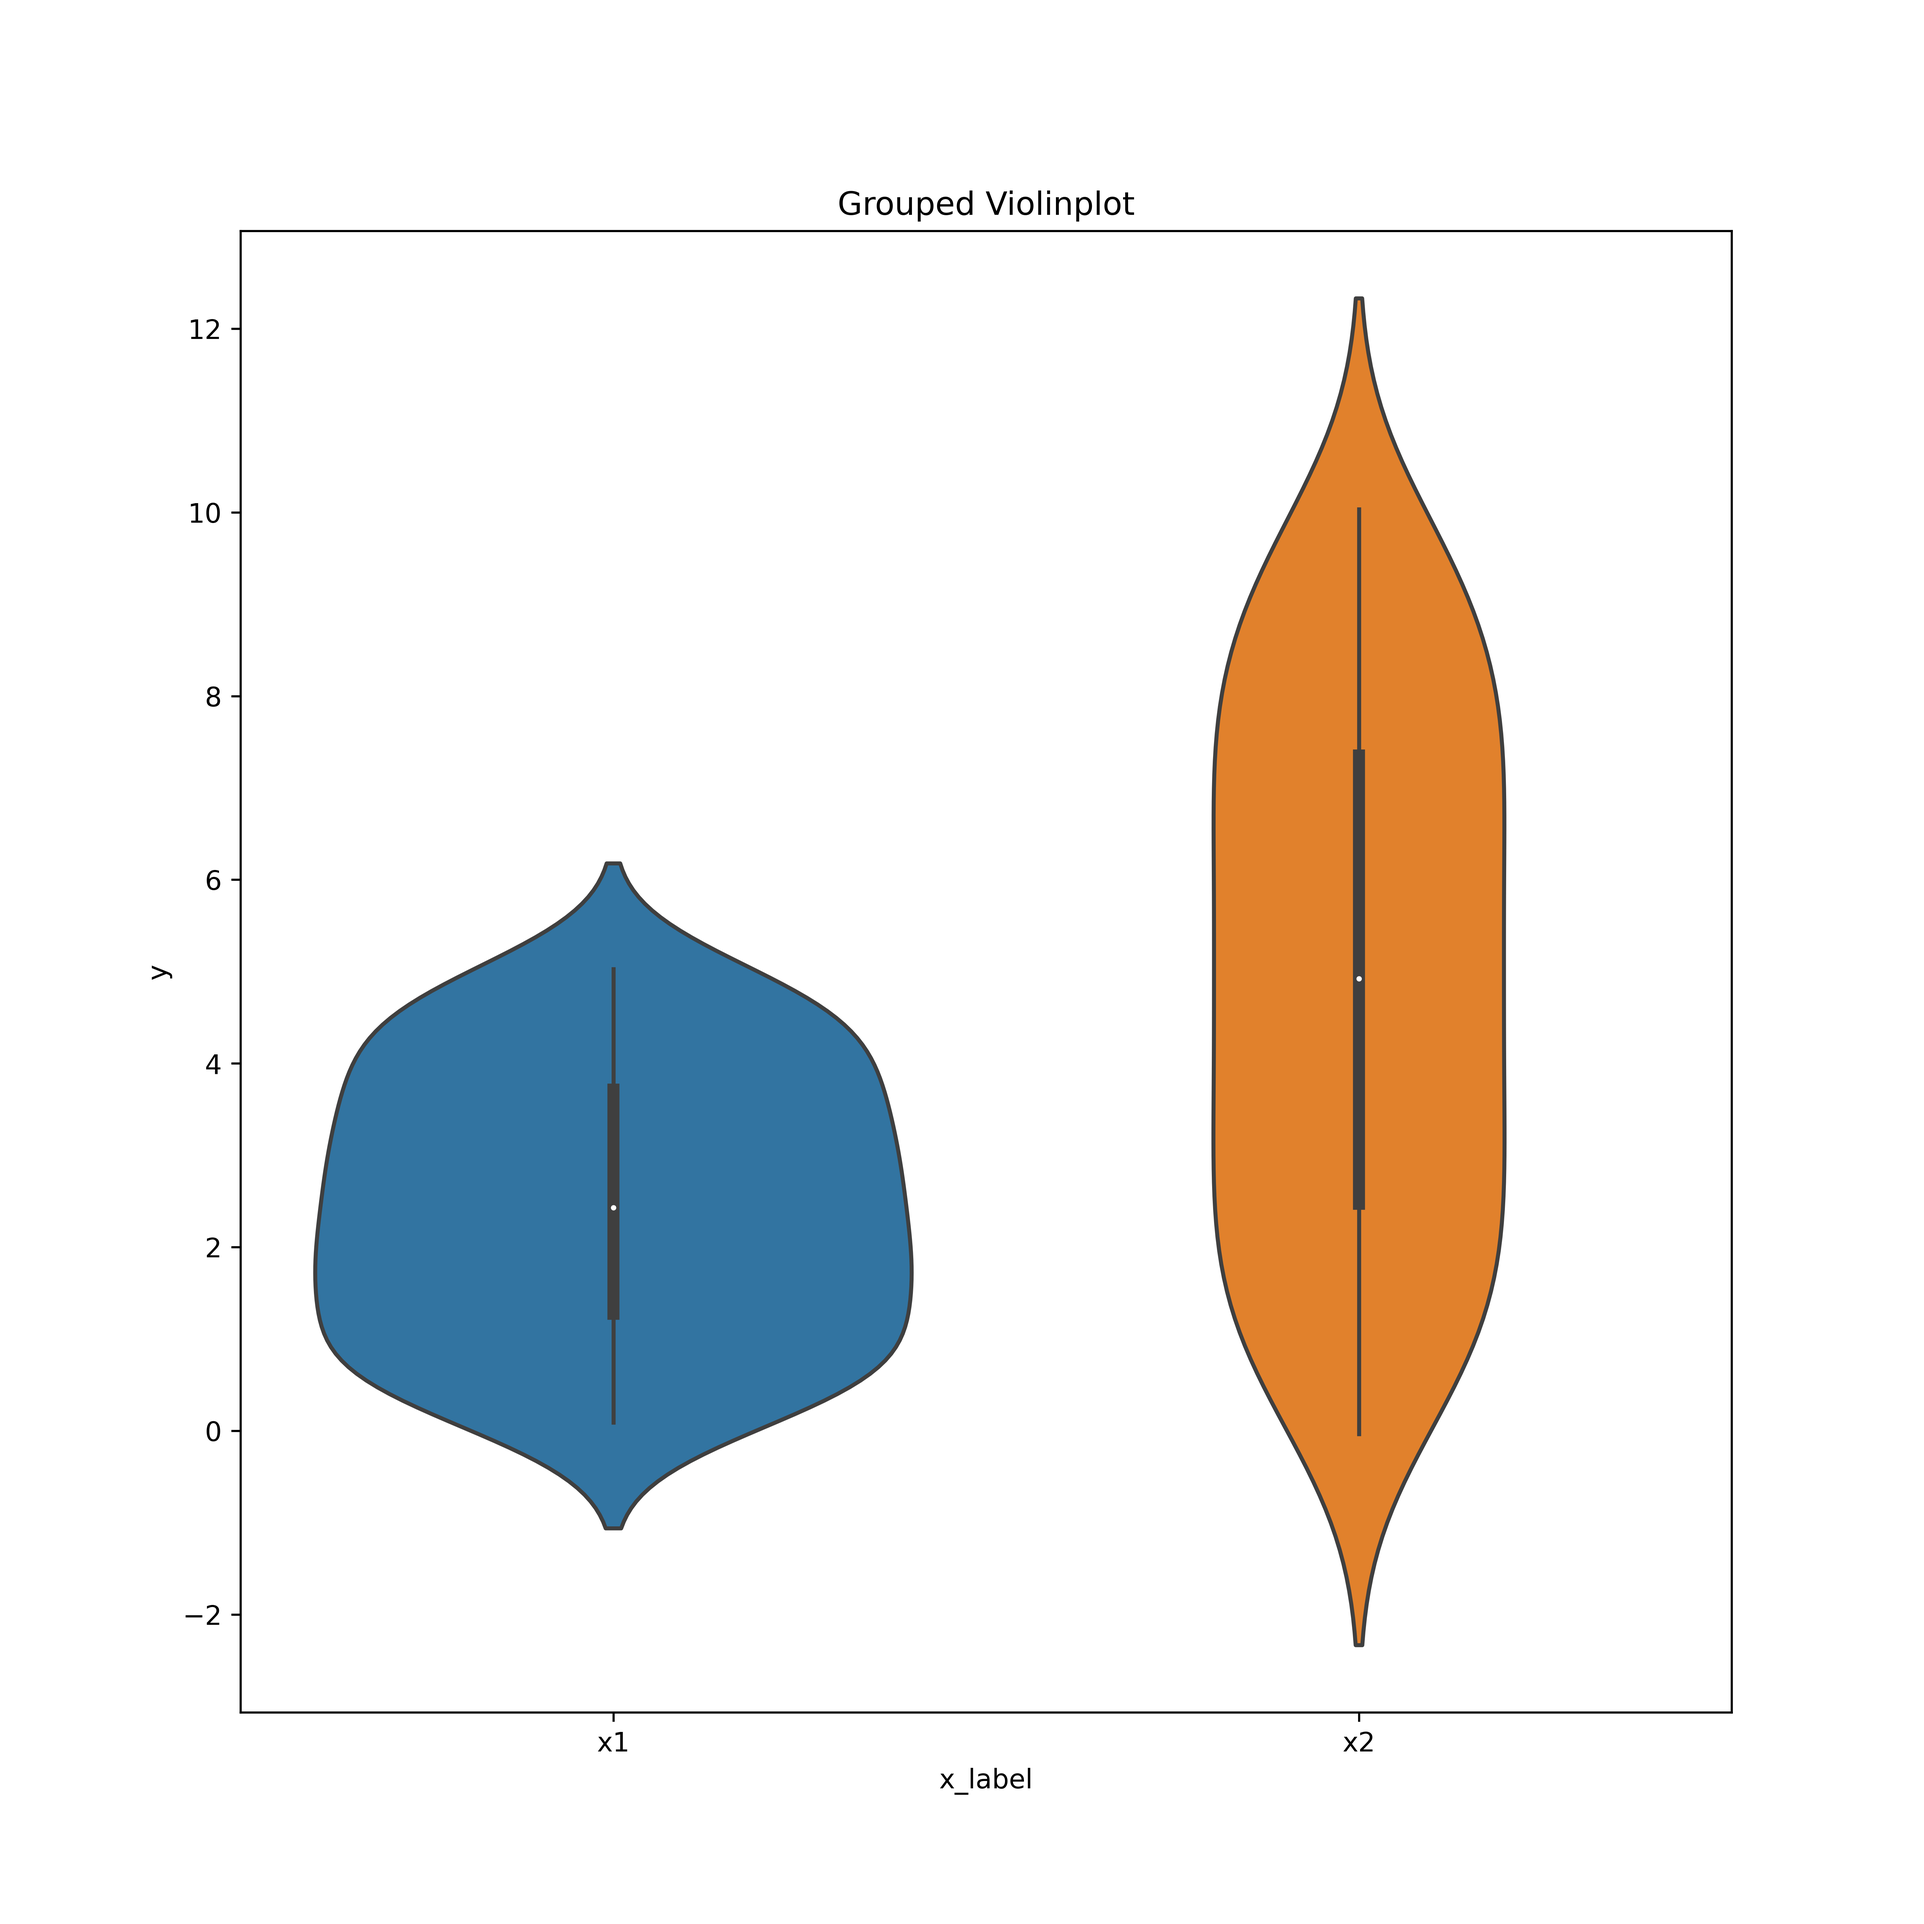
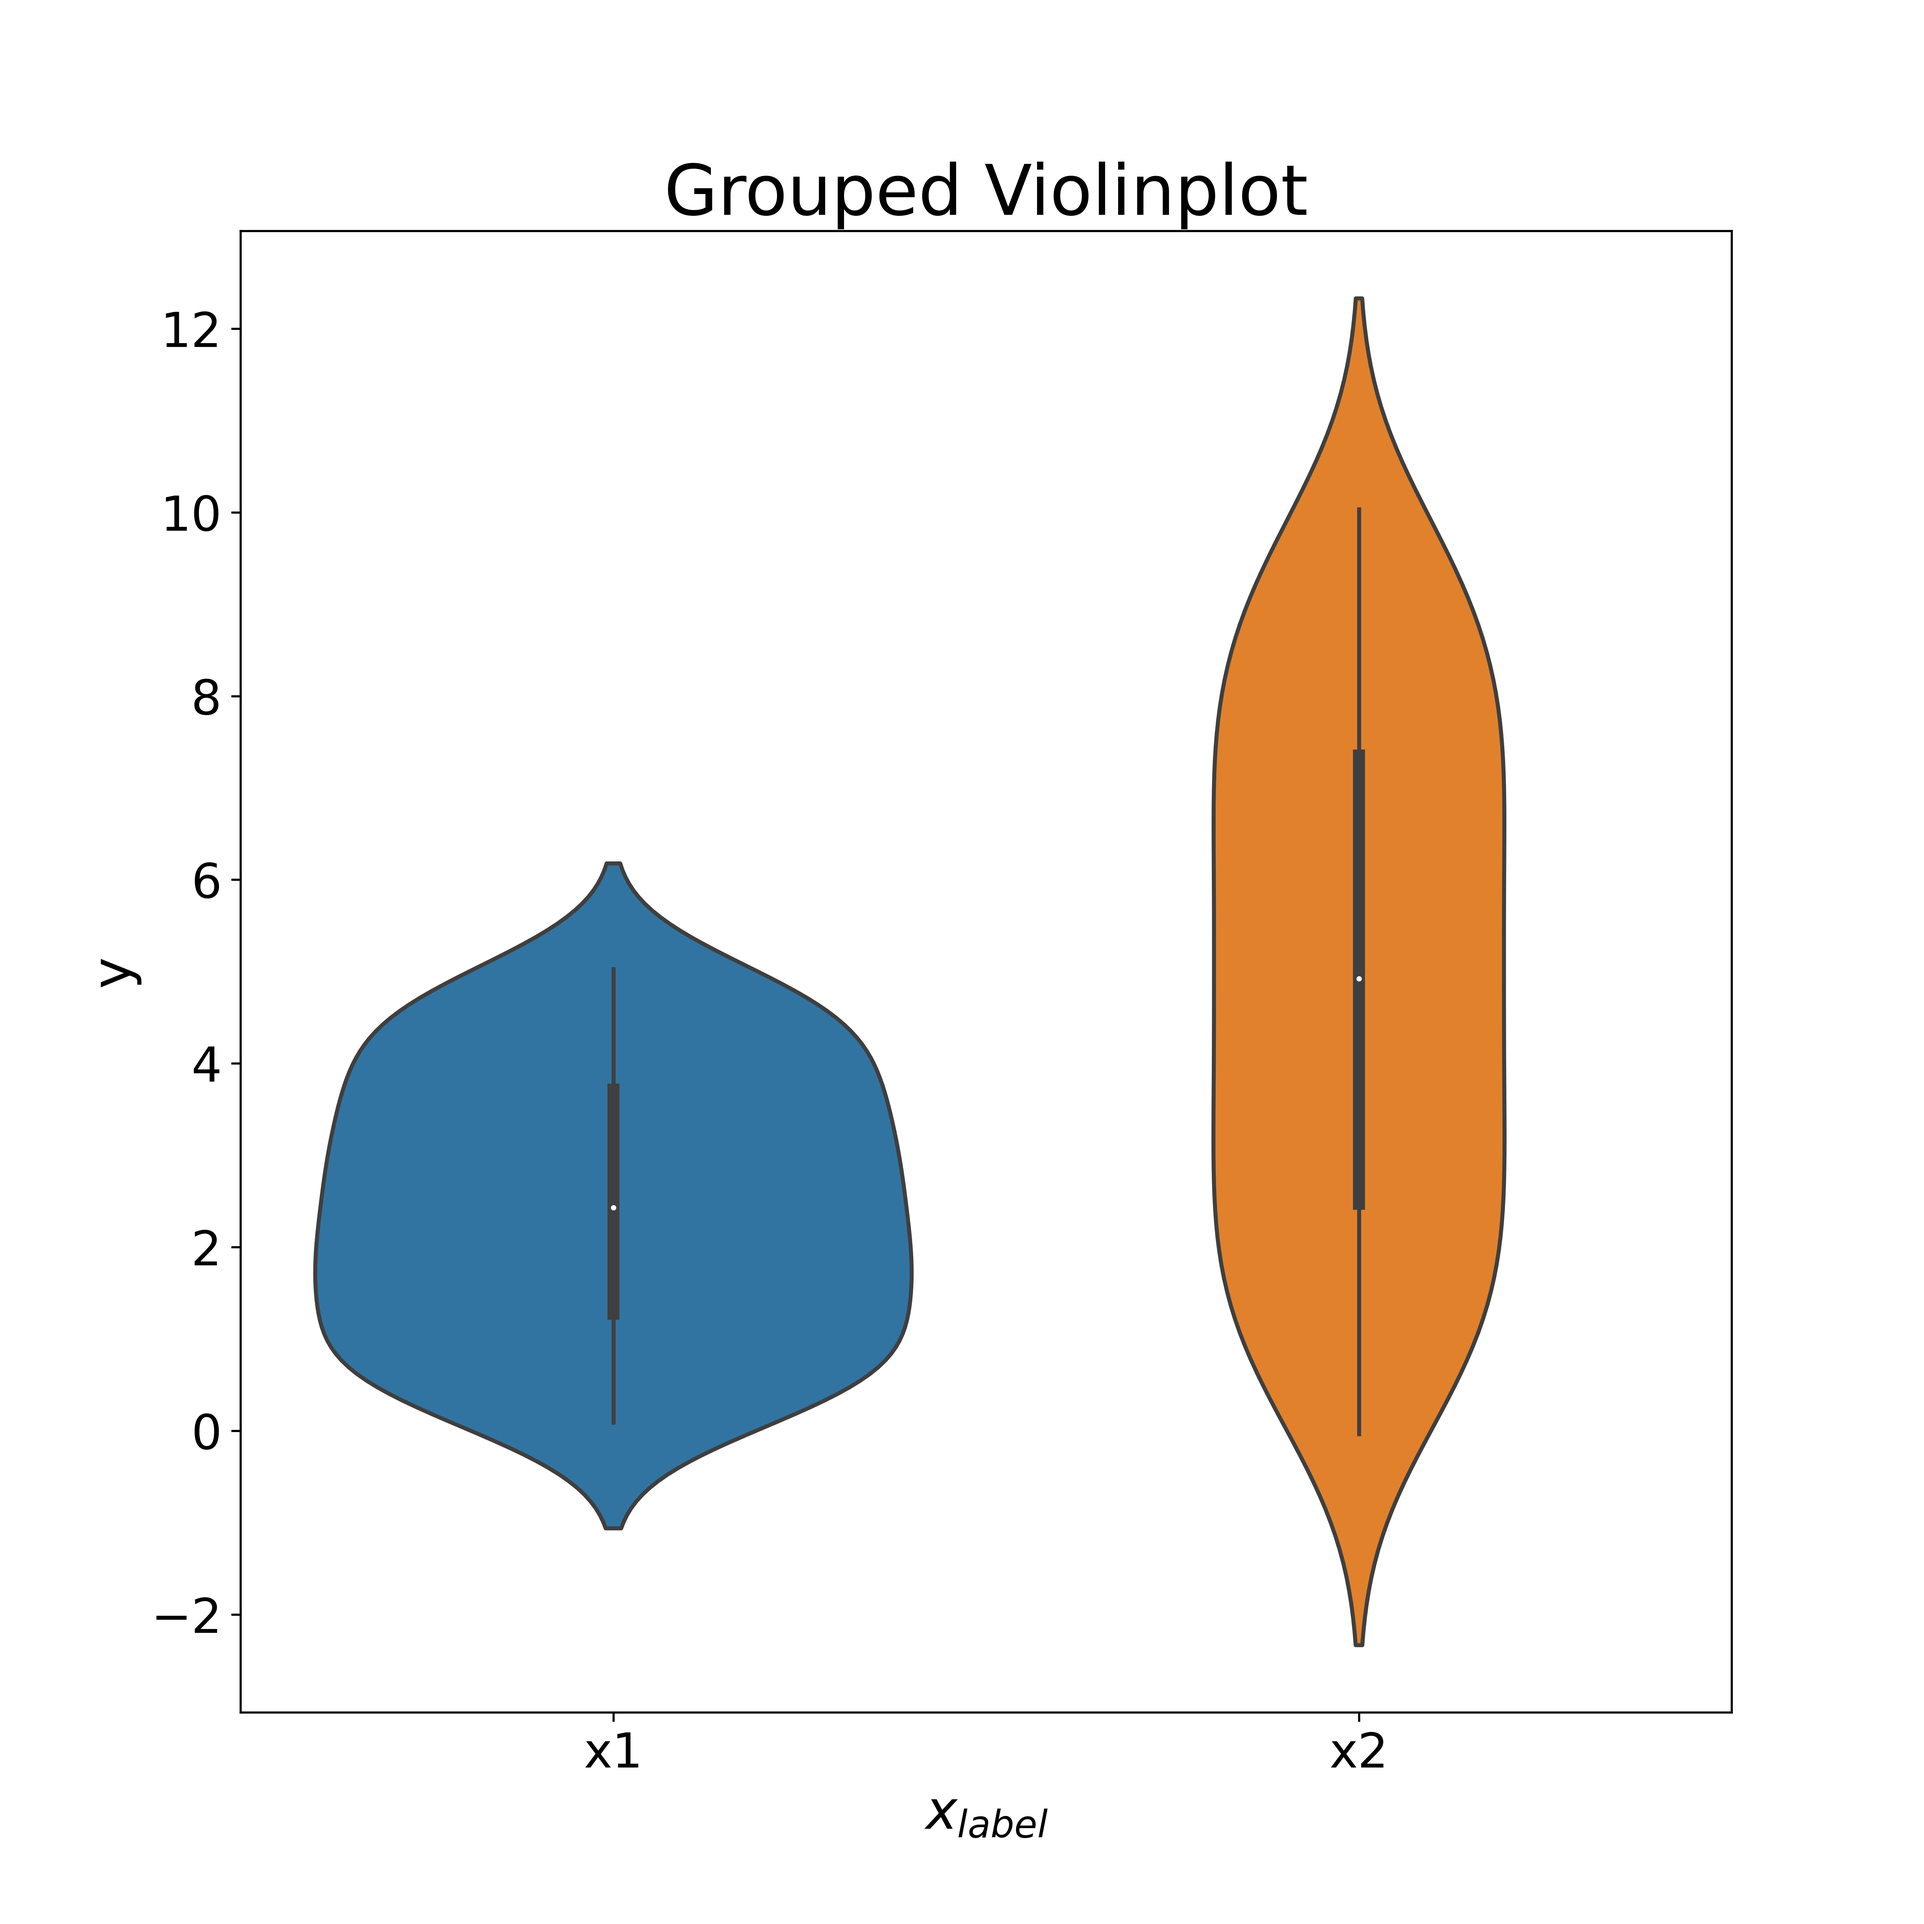
Rename paras and add more paras for set_axis_infos

diff --git a/plotting_utils/general_utils.py b/plotting_utils/general_utils.py
@@ -18,9 +18,11 @@ def save_fig(fig,save_loc:str = None, dpi:int = 600) -> None:
     fig.savefig(save_loc, dpi = dpi)
     plt.close("all")
 
-def set_axis_infos(ax, xlabel:str = None, ylabel:int = None, xlim = None, 
-                   ylim = None, legend = None, title:str = None, xticks = None,
-                   yticks = None) -> None:
+def set_axis_infos(ax, xlabel:str = None, ylabel:str = None, xlim = None, 
+                   ylim = None, legend = None, title_str:str = None, xticks = None,
+                   yticks = None, xlabel_size:int = 20, ylabel_size:int = 20, 
+                   title_size:int =26, ticks_size:int = 18, legend_size:int = 20, 
+                   legend_loc:str = 'best') -> None:
     """
     Set axis information
     :param ax: axis
@@ -29,13 +31,26 @@ def set_axis_infos(ax, xlabel:str = None, ylabel:int = None, xlim = None,
     :param xlim: x-axis limits
     :param ylim: y-axis limits
     :param legend: legend
-    :param title: title
+    :param title_str: title
+    :param xticks: x-axis ticks
+    :param yticks: y-axis ticks
+    :param xlabel_size: x-axis label size
+    :param ylabel_size: y-axis label size
+    :param title_size: title size
+    :param ticks_size: ticks size
+    :param legend_size: legend size
+    :param legend_loc: legend location
     :return: None
     """
+
     if xlabel:
         ax.set_xlabel(xlabel)
+    if xlabel_size:
+        ax.xaxis.label.set_size(xlabel_size)
     if ylabel:
         ax.set_ylabel(ylabel)
+    if ylabel_size:
+        ax.yaxis.label.set_size(ylabel_size)
     if xlim:
         ax.set_xlim(xlim[0], xlim[1])
     if ylim:
@@ -44,7 +59,9 @@ def set_axis_infos(ax, xlabel:str = None, ylabel:int = None, xlim = None,
         ax.set_xticks(xticks)
     if yticks:
         ax.set_yticks(yticks)
+    if ticks_size:
+        ax.tick_params(axis='both', which='major', labelsize=ticks_size)
     if legend:
-        ax.legend(legend)
-    if title:
-        ax.set_title(title)
+        ax.legend(legend, fontsize=legend_size, loc=legend_loc)
+    if title_str:
+        ax.set_title(title_str, fontsize=title_size)

diff --git a/plotting_utils/scatterplot_utils.py b/plotting_utils/scatterplot_utils.py
@@ -1,5 +1,6 @@
 import matplotlib.pyplot as plt
 import seaborn as sns
+from .general_utils import set_axis_infos
 
 def basic_scatterplot(ts_x = None, ts_y = None, title_str:str = None, ylabel:str = None, lw:float=3.0, ylim = None, xlabel:str = 'time', xlim = None, ms:float =4.0, color:str = 'b', ax = None) -> None:
     """
@@ -31,8 +32,8 @@ def basic_scatterplot(ts_x = None, ts_y = None, title_str:str = None, ylabel:str
     if ylim:
         ax.set_ylim(ylim)
 
-    # Set title
-    ax.set_title(title_str)
+    # Set axis infos
+    set_axis_infos(ax, ylim = ylim, title_str = title_str)
 
 # joint plot: scatterplot with the CDFs
 def scatter_pdf_plot(ts_x = None, ts_y = None, title_str:str = None, ylabel:str = None, lw:float=3.0, ylim = None, xlabel:str = 'time', xlim = None):
@@ -50,7 +51,7 @@ def scatter_pdf_plot(ts_x = None, ts_y = None, title_str:str = None, ylabel:str 
     """
 
     # Joint plot
-    fig = sns.jointplot(x = ts_x, y = ts_y,)
+    fig = sns.jointplot(x = ts_x, y = ts_y)
 
     # Set labels
     fig.set_axis_labels(xlabel, ylabel)

diff --git a/plotting_utils/histogram_utils.py b/plotting_utils/histogram_utils.py
@@ -25,7 +25,7 @@ def plot_pdf(data_vector = None, xlabel:str = None, title_str:str = None, ax = N
     alpha=.4, edgecolor=(1, 1, 1, .4), ax = ax)
 
     # Set axis infos
-    set_axis_infos(ax, xlabel = xlabel, title = title_str)
+    set_axis_infos(ax, xlabel = xlabel, title_str = title_str)
 
 def plot_several_pdf(data_vector_list = None, xlabel:str = None, 
                       title_str:str = None, legend = None, 
@@ -53,5 +53,5 @@ def plot_several_pdf(data_vector_list = None, xlabel:str = None,
 
 
     # Set axis infos
-    set_axis_infos(ax, xlabel = xlabel, ylabel = ylabel, title = title_str, xlim = xlim, legend = legend)
+    set_axis_infos(ax, xlabel = xlabel, ylabel = ylabel, title_str = title_str, xlim = xlim, legend = legend)
 

diff --git a/plotting_utils/lineplot_utils.py b/plotting_utils/lineplot_utils.py
@@ -20,7 +20,7 @@ def basic_plot_ts(ts_vector = None, title_str:str = None, ylabel:str = None, lw:
     # Plot time series
     ax.plot(ts_vector, lw=lw)
 
-    set_axis_infos(ax, xlabel=xlabel,ylabel=ylabel, ylim = ylim, title = title_str)
+    set_axis_infos(ax, xlabel=xlabel,ylabel=ylabel, ylim = ylim, title_str = title_str)
 
 
 def overlaid_ts(normalized_ts_dict:Dict = None, title_str:str = None, 
@@ -113,7 +113,6 @@ def overlaid_ts(normalized_ts_dict:Dict = None, title_str:str = None,
 
     # Plot legend
     if legend_present:
-        print('legend present!')
         ax.legend(loc = 'best')
 
     # Set title if not none

diff --git a/examples/scatterplot_examples.py b/examples/scatterplot_examples.py
@@ -22,7 +22,6 @@ def test_basic_scatterplot(x_data,y_data) -> None:
     :return: None
     """
 
-
     fig, ax = plt.subplots(figsize=(10, 10))
 
     # Create a  basic scatter plot
@@ -40,7 +39,7 @@ def test_scatter_pdf_plot(x_data,y_data) -> None:
     :param y_data: y-axis data
     :return: None
     """
-    
+
     # Create a scatter plot with CDFs
     fig = scatter_pdf_plot(ts_x = x_data, ts_y = y_data, title_str = 'Scatter Plot with CDFs', ylabel = 'y', lw = 3.0, ylim = None, xlabel = 'x', xlim = None)
 

diff --git a/examples/violinplot_examples.py b/examples/violinplot_examples.py
@@ -50,7 +50,7 @@ if __name__ == '__main__':
     groups = np.concatenate([np.repeat('a',50),np.repeat('b',50),np.repeat('a',50),np.repeat('b',50)])
 
 
-    df = pd.DataFrame({'y': x_data, 'x_label': x_label, 'groups': groups})
+    df = pd.DataFrame({'y': x_data, '$x_{label}$': x_label, 'groups': groups})
 
     # Test grouped violinplot
-    test_grouped_violinplot(df,x_var='x_label',y_var='y',hue='groups')
+    test_grouped_violinplot(df,x_var='$x_{label}$', y_var='y', hue='groups')

diff --git a/examples/lineplot_examples.py b/examples/lineplot_examples.py
@@ -23,7 +23,8 @@ font = {'family' : 'normal',
         'weight' : 'bold',
         'size'   : FONT_SIZE}
 plt.rc('font', **font)
-plt.rcParams['text.latex.preamble'] = [r'\boldmath']
+plt.rc('text', usetex=True)
+plt.rcParams['text.latex.preamble'] = r"\usepackage{bm} \usepackage{amsmath}"
 
 LEGEND_FONT_SIZE = 14
 XTICK_LABEL_SIZE = 14

diff --git a/plotting_utils/violinplot_utils.py b/plotting_utils/violinplot_utils.py
@@ -32,4 +32,4 @@ def plot_grouped_violinplot(df = None, x_var = None, y_var = None, ylim = None, 
             sns.violinplot(x=x_var, y=y_var, data=df, order = order_list, palette = pal, ax = ax)
 
     # Set axis infos
-    set_axis_infos(ax, ylim = ylim, title = title_str)
+    set_axis_infos(ax, ylim = ylim, title_str = title_str)

diff --git a/plotting_utils/set_plot_properties.py b/plotting_utils/set_plot_properties.py
@@ -1,0 +1,10 @@
+# TODO
+'''
+params = {'legend.fontsize': 'x-large',
+          'figure.figsize': (15, 5),
+         'axes.labelsize': 'x-large',
+         'axes.titlesize':'x-large',
+         'xtick.labelsize':'x-large',
+         'ytick.labelsize':'x-large'}
+pylab.rcParams.update(params)
+'''
